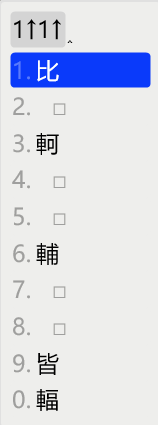
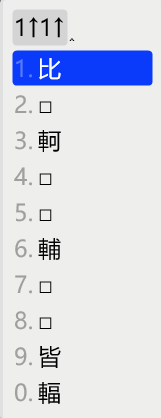
空碼位不要用空字串，且在萬用字元和反查注音等情況不要顯示空碼位

diff --git a/README.md b/README.md
@@ -72,7 +72,7 @@
 
 ### 簡碼
 
-一、二级簡碼已編排數字鍵位，且空碼位會留空，空碼位為「空字串」不會上屏任何文字。欲上屏簡碼可以透過「數字鍵」來選擇。
+一、二级簡碼已編排數字鍵位，空碼位以「□」代替。欲上屏簡碼可以透過「數字鍵」來選擇。
 
  ![alt text](簡碼輸入示例.png)
 
